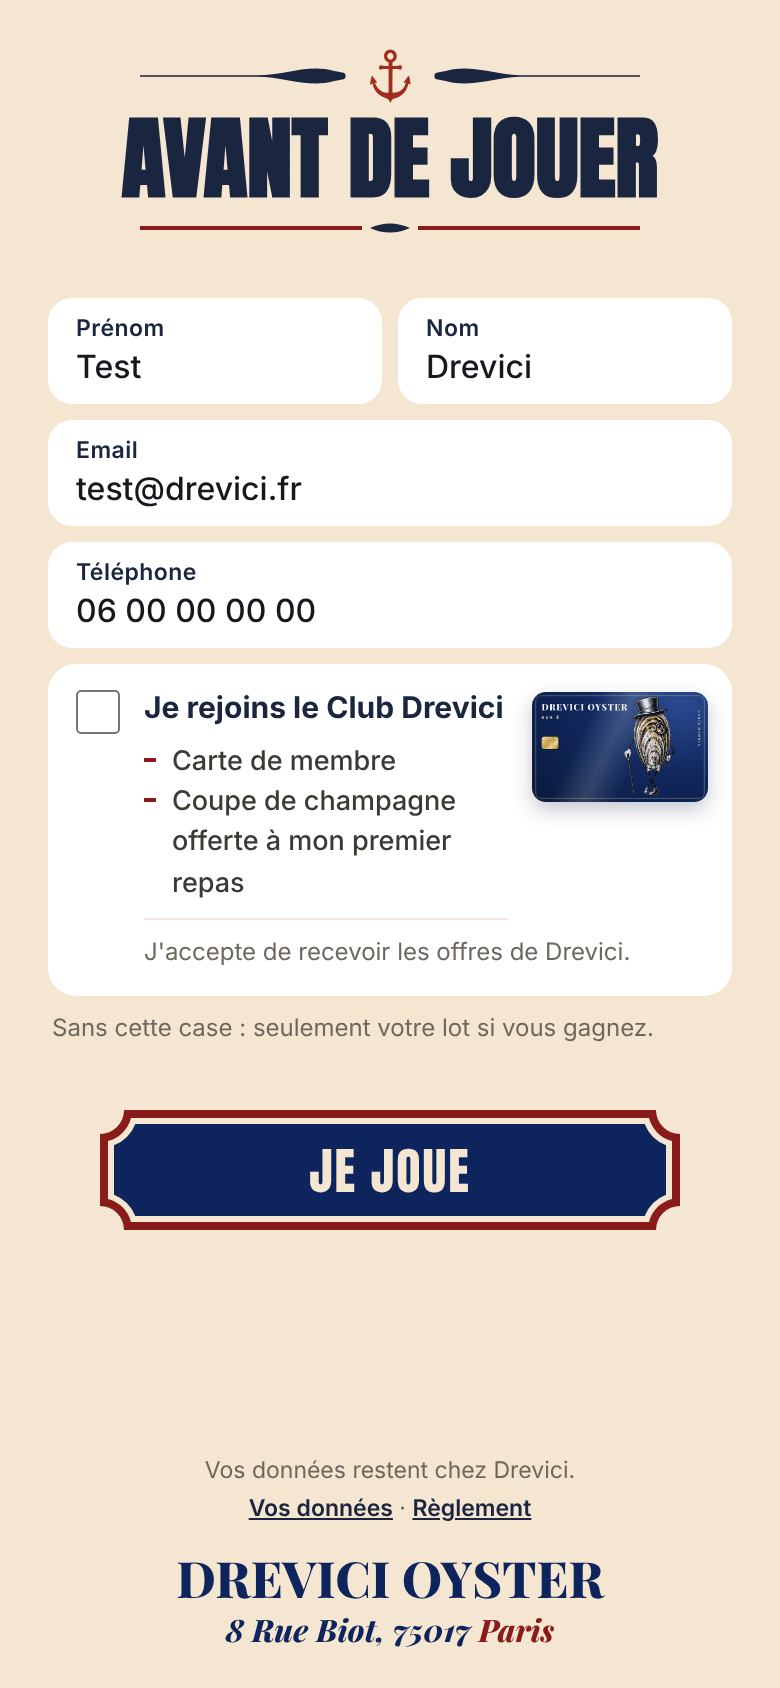
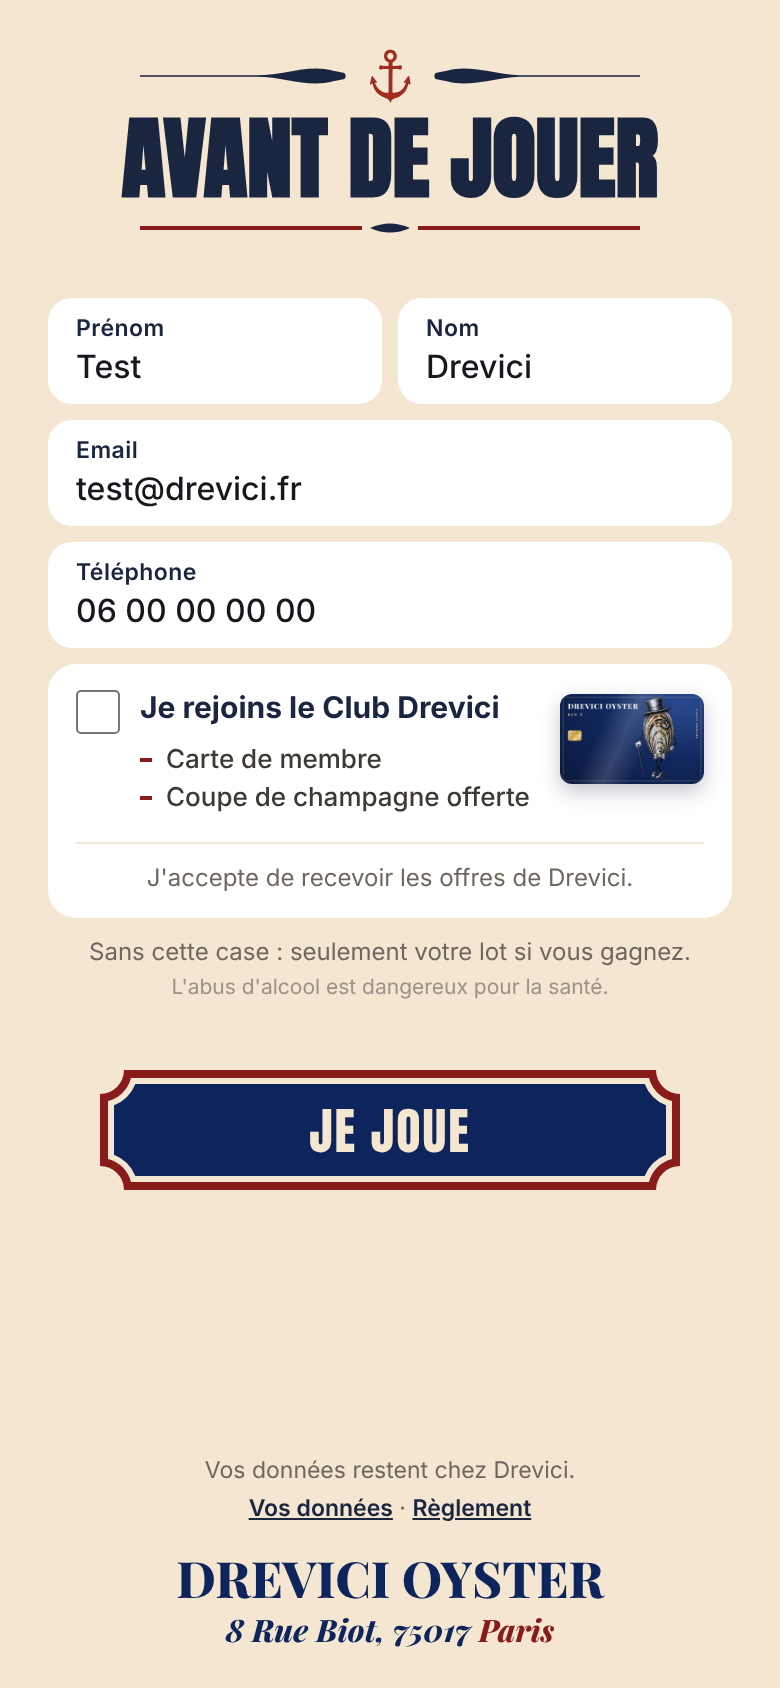
Jeu Free Oyster : maquette case du club, version B corrigée
Claude-Session: https://claude.ai/code/session_012ueJSkHMqbZpvX7x5D3Dw2

Changed region(s): [[0.0615, 0.4005, 0.9538, 0.7393]]

diff --git a/tools/jeu/maquette-case-club.html b/tools/jeu/maquette-case-club.html
@@ -1,4 +1,4 @@
 <!doctype html><html><head><meta charset="utf-8"><link rel="stylesheet" href="https://fonts.googleapis.com/css2?family=Inter:wght@400;600;700&display=swap"></head>
-<body style="margin:0;background:#e3ddd3;padding:30px;width:2120px;font-family:Inter"><h1 style="font-size:26px;margin:0 0 6px">Avant de jouer · case du club</h1>
+<body style="margin:0;background:#e3ddd3;padding:30px;width:1250px;font-family:Inter"><h1 style="font-size:26px;margin:0 0 6px">Avant de jouer · case du club</h1>
 <p style="color:#555;margin:0 0 20px;font-size:15px">Une seule case. Titre « Je rejoins le Club Drevici », puis la carte et la coupe à la ligne, puis l'accord aux offres sur une ligne.</p>
-<div style="display:flex;gap:30px;align-items:flex-start"><figure style="margin:0;width:390px"><img src="_case-A.png" style="width:390px;border-radius:40px;border:10px solid #111;box-sizing:border-box"><figcaption style="font:600 15px Inter;margin-top:10px">A · Simple, sur fond blanc</figcaption></figure><figure style="margin:0;width:390px"><img src="_case-B.png" style="width:390px;border-radius:40px;border:10px solid #111;box-sizing:border-box"><figcaption style="font:600 15px Inter;margin-top:10px">B · Avec la carte du club</figcaption></figure><figure style="margin:0;width:390px"><img src="_case-C.png" style="width:390px;border-radius:40px;border:10px solid #111;box-sizing:border-box"><figcaption style="font:600 15px Inter;margin-top:10px">C · Bloc bleu, la case ressort</figcaption></figure><figure style="margin:0;width:760px"><img src="_case-A-desk.png" style="width:760px;border-radius:12px"><figcaption style="font:600 15px Inter;margin-top:10px">A · sur ordinateur</figcaption></figure></div></body></html>
+<div style="display:flex;gap:30px;align-items:flex-start"><figure style="margin:0;width:390px"><img src="_case-B.png" style="width:390px;border-radius:40px;border:10px solid #111;box-sizing:border-box"><figcaption style="font:600 15px Inter;margin-top:10px">B · Avec la carte du club, corrigée</figcaption></figure><figure style="margin:0;width:760px"><img src="_case-B-desk.png" style="width:760px;border-radius:12px"><figcaption style="font:600 15px Inter;margin-top:10px">B · sur ordinateur</figcaption></figure></div></body></html>

diff --git a/tools/jeu/maquette-case-club.py b/tools/jeu/maquette-case-club.py
@@ -11,12 +11,25 @@ CSS = """
 .cv .ok{font:12px/1.4 Inter;color:#6d675d;margin-top:8px;padding-top:8px;border-top:1px solid #efe6d8;white-space:nowrap}
 .cv.card{position:relative;padding-right:112px}.cv.card .mini{position:absolute;right:12px;top:14px;width:88px;border-radius:7px;box-shadow:0 4px 10px rgba(26,37,64,.25)}
 .cv.dark{background:#1a2540}.cv.dark .t{color:#f4e6d1}.cv.dark li{color:#e8dcc8}.cv.dark li::before{background:#e0a59a}.cv.dark .ok{color:#b9b3c8;border-color:rgba(255,255,255,.12)}.cv.dark input{accent-color:#f4e6d1}
-.nochk2{font:12px/1.45 Inter;color:#6d675d;margin:7px 2px 0;text-align:left}
+.nochk2{font:12px/1.45 Inter;color:#6d675d;margin:8px 2px 0;text-align:center}
+.cv2{display:block;width:100%;background:#fff;border-radius:14px;padding:13px 14px 0;margin-top:6px;cursor:pointer;text-align:left}
+.cv2 .row{display:flex;gap:10px;align-items:flex-start}
+.cv2 input{flex:none;width:22px;height:22px;margin:0;accent-color:#1a2540}
+.cv2 .t{font:700 15px/1.25 Inter;color:#1a2540}
+.cv2 ul{list-style:none;padding:0;margin:6px 0 0}.cv2 li{font:500 13px/1.5 Inter;color:#3d3a34;padding-left:13px;position:relative;white-space:nowrap}
+.cv2 li::before{content:'';position:absolute;left:0;top:9px;width:6px;height:2px;background:#8a1b1b}
+.cv2 .mini{flex:none;width:72px;margin-left:auto;margin-top:2px;border-radius:6px;box-shadow:0 4px 10px rgba(26,37,64,.25)}
+.cv2 .ok{font:12px/1.4 Inter;color:#6d675d;margin-top:12px;padding:9px 0 11px;border-top:1px solid #efe6d8;text-align:center}
+.evin{font:10.5px/1.4 Inter;color:#9a9286;text-align:center;margin-top:3px}
 """
 BODY = lambda cls, extra='': f"""<label class="cv {cls}"><input type="checkbox" name="optin">{extra}<div style="min-width:0"><div class="t">Je rejoins le Club Drevici</div>
 <ul><li>Carte de membre</li><li>Coupe de champagne offerte à mon premier repas</li></ul>
 <div class="ok">J'accepte de recevoir les offres de Drevici.</div></div></label>
 <div class="nochk2">Sans cette case : seulement votre lot si vous gagnez.</div>"""
+B2 = '''<label class="cv2"><div class="row"><input type="checkbox" name="optin"><div style="min-width:0"><div class="t">Je rejoins le Club Drevici</div>
+<ul><li>Carte de membre</li><li>Coupe de champagne offerte</li></ul></div><img class="mini" src="club/email/carte-navy.jpg" alt=""></div>
+<div class="ok">J'accepte de recevoir les offres de Drevici.</div></label>
+<div class="nochk2">Sans cette case : seulement votre lot si vous gagnez.</div><div class="evin">L'abus d'alcool est dangereux pour la santé.</div>'''
 V = [('A', 'Simple, sur fond blanc', BODY('')),
      ('B', 'Avec la carte du club', BODY('card', '<img class="mini" src="club/email/carte-navy.jpg" alt="">')),
      ('C', 'Bloc bleu, la case ressort', BODY('dark'))]
@@ -31,16 +44,17 @@ async def shot(pg, html, path, w, h):
 async def main():
     async with async_playwright() as p:
         b = await p.chromium.launch(); pg = await b.new_page(device_scale_factor=2)
+        V[:] = [('B', 'Avec la carte du club, corrigée', B2)]
         for k, _, html in V: await shot(pg, html, OUT + f'_case-{k}.png', 390, 844)
-        await shot(pg, V[0][2], OUT + '_case-A-desk.png', 1280, 920)
+        await shot(pg, B2, OUT + '_case-B-desk.png', 1280, 920)
         # planche
         imgs = ''.join(f'<figure style="margin:0;width:390px"><img src="_case-{k}.png" style="width:390px;border-radius:40px;border:10px solid #111;box-sizing:border-box"><figcaption style="font:600 15px Inter;margin-top:10px">{k} · {n}</figcaption></figure>' for k, n, _ in V)
         html = f"""<!doctype html><html><head><meta charset="utf-8"><link rel="stylesheet" href="https://fonts.googleapis.com/css2?family=Inter:wght@400;600;700&display=swap"></head>
-<body style="margin:0;background:#e3ddd3;padding:30px;width:2120px;font-family:Inter"><h1 style="font-size:26px;margin:0 0 6px">Avant de jouer · case du club</h1>
+<body style="margin:0;background:#e3ddd3;padding:30px;width:1250px;font-family:Inter"><h1 style="font-size:26px;margin:0 0 6px">Avant de jouer · case du club</h1>
 <p style="color:#555;margin:0 0 20px;font-size:15px">Une seule case. Titre « Je rejoins le Club Drevici », puis la carte et la coupe à la ligne, puis l'accord aux offres sur une ligne.</p>
-<div style="display:flex;gap:30px;align-items:flex-start">{imgs}<figure style="margin:0;width:760px"><img src="_case-A-desk.png" style="width:760px;border-radius:12px"><figcaption style="font:600 15px Inter;margin-top:10px">A · sur ordinateur</figcaption></figure></div></body></html>"""
+<div style="display:flex;gap:30px;align-items:flex-start">{imgs}<figure style="margin:0;width:760px"><img src="_case-B-desk.png" style="width:760px;border-radius:12px"><figcaption style="font:600 15px Inter;margin-top:10px">B · sur ordinateur</figcaption></figure></div></body></html>"""
         open(OUT + 'maquette-case-club.html', 'w').write(html)
-        await pg.set_viewport_size({'width': 2180, 'height': 900})
+        await pg.set_viewport_size({'width': 1300, 'height': 900})
         await pg.goto('file://' + OUT + 'maquette-case-club.html', wait_until='networkidle')
         await pg.screenshot(path=OUT + 'maquette-case-club.png', full_page=True)
         await b.close()
